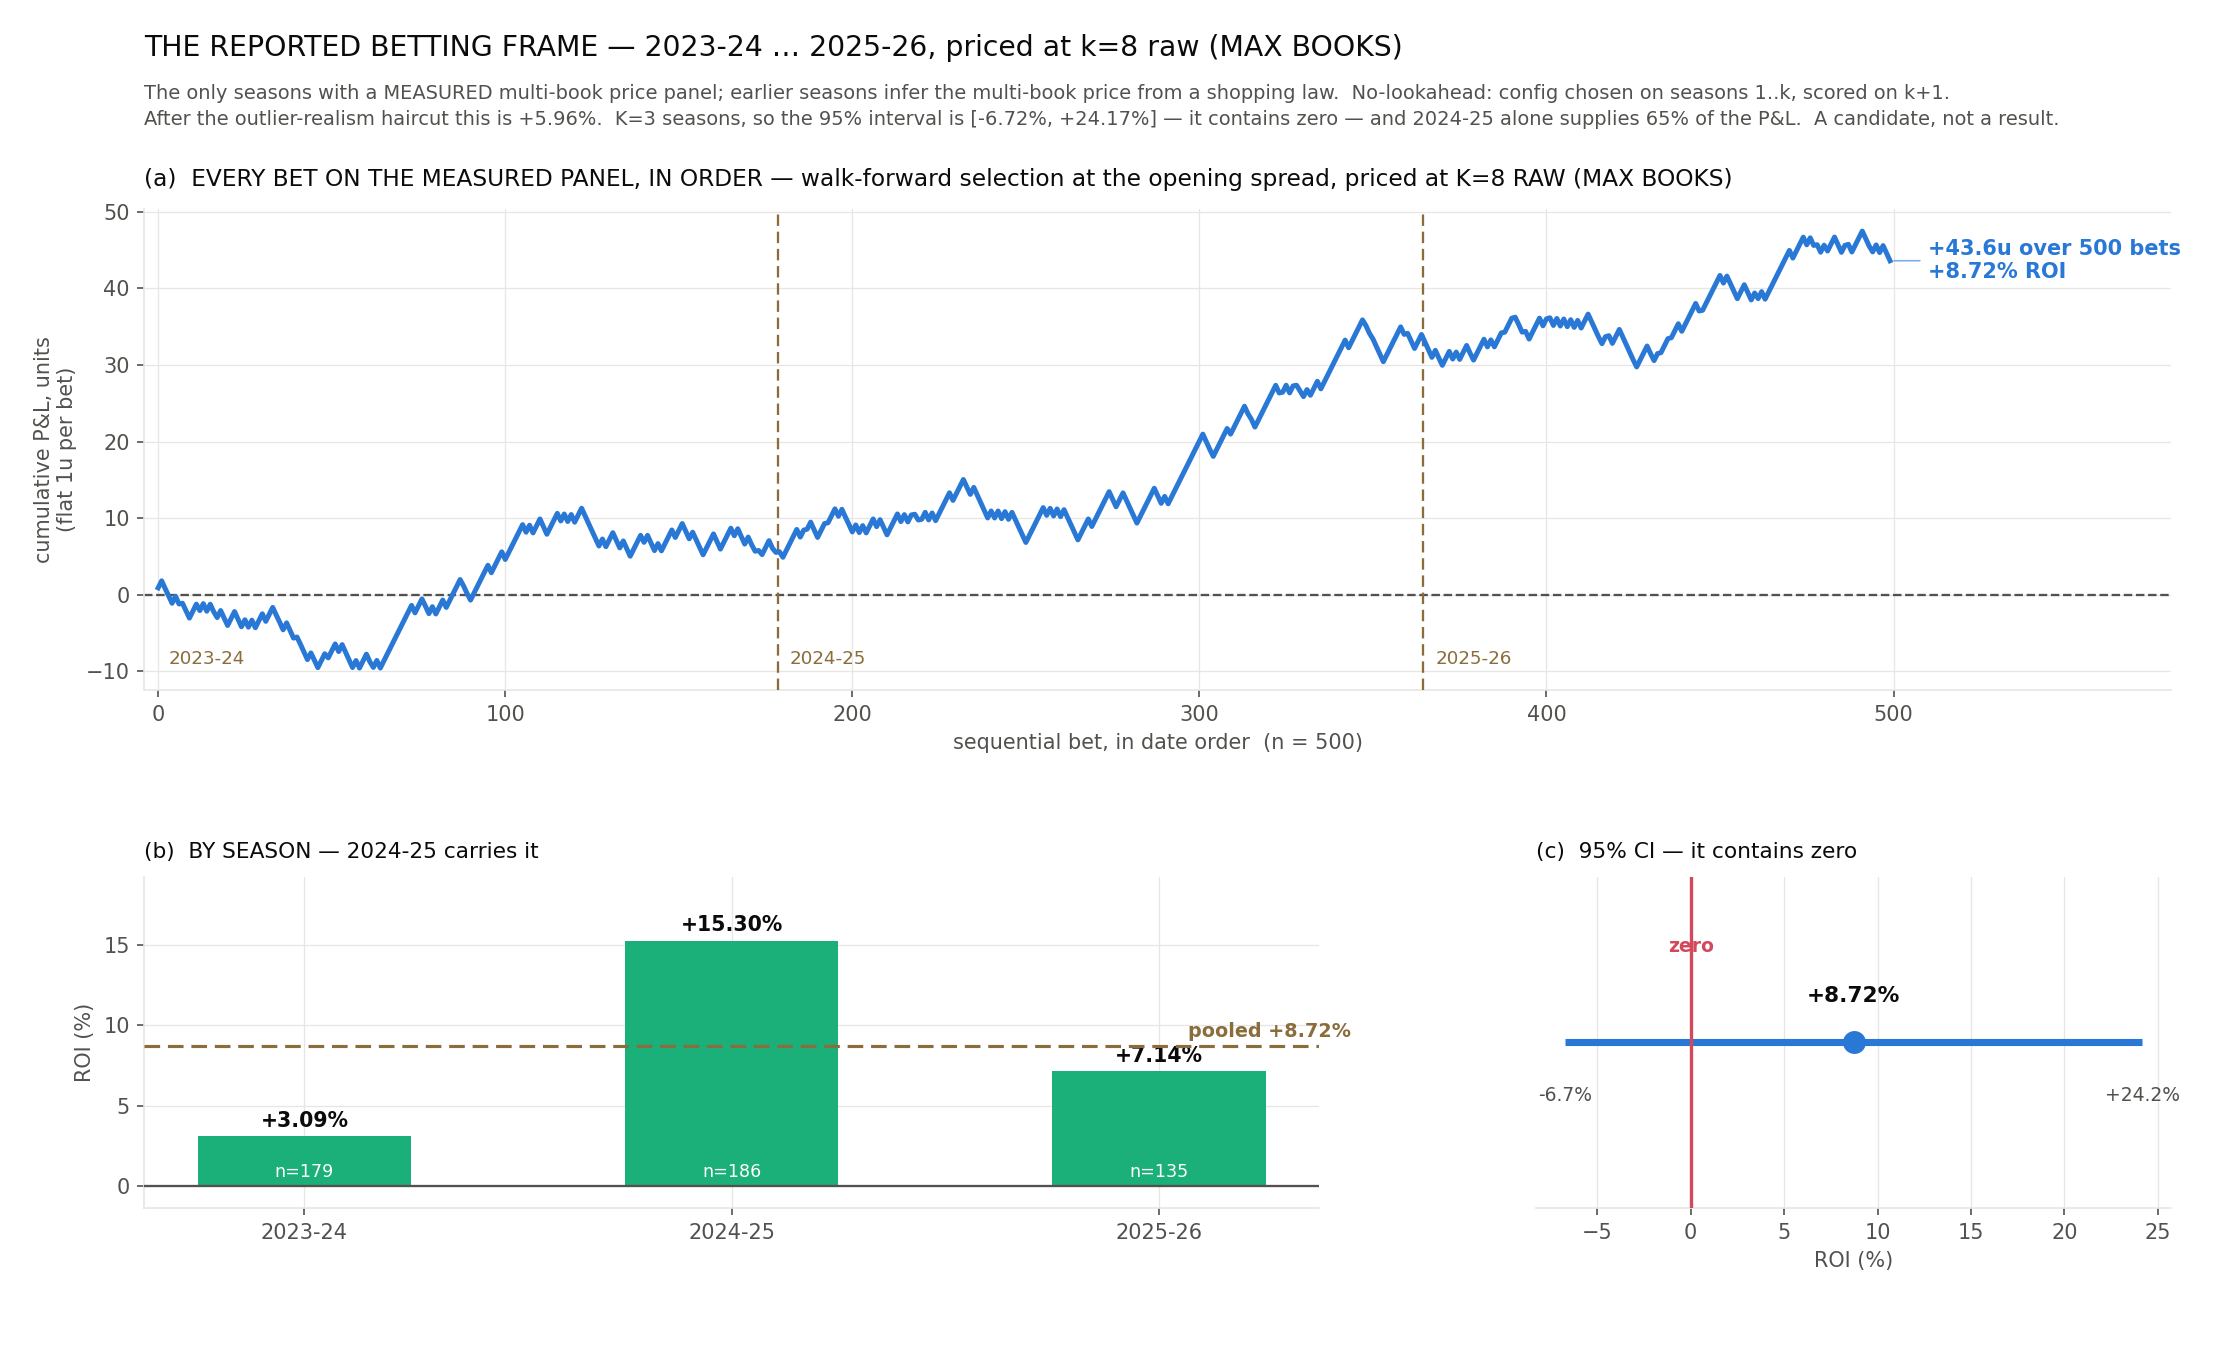
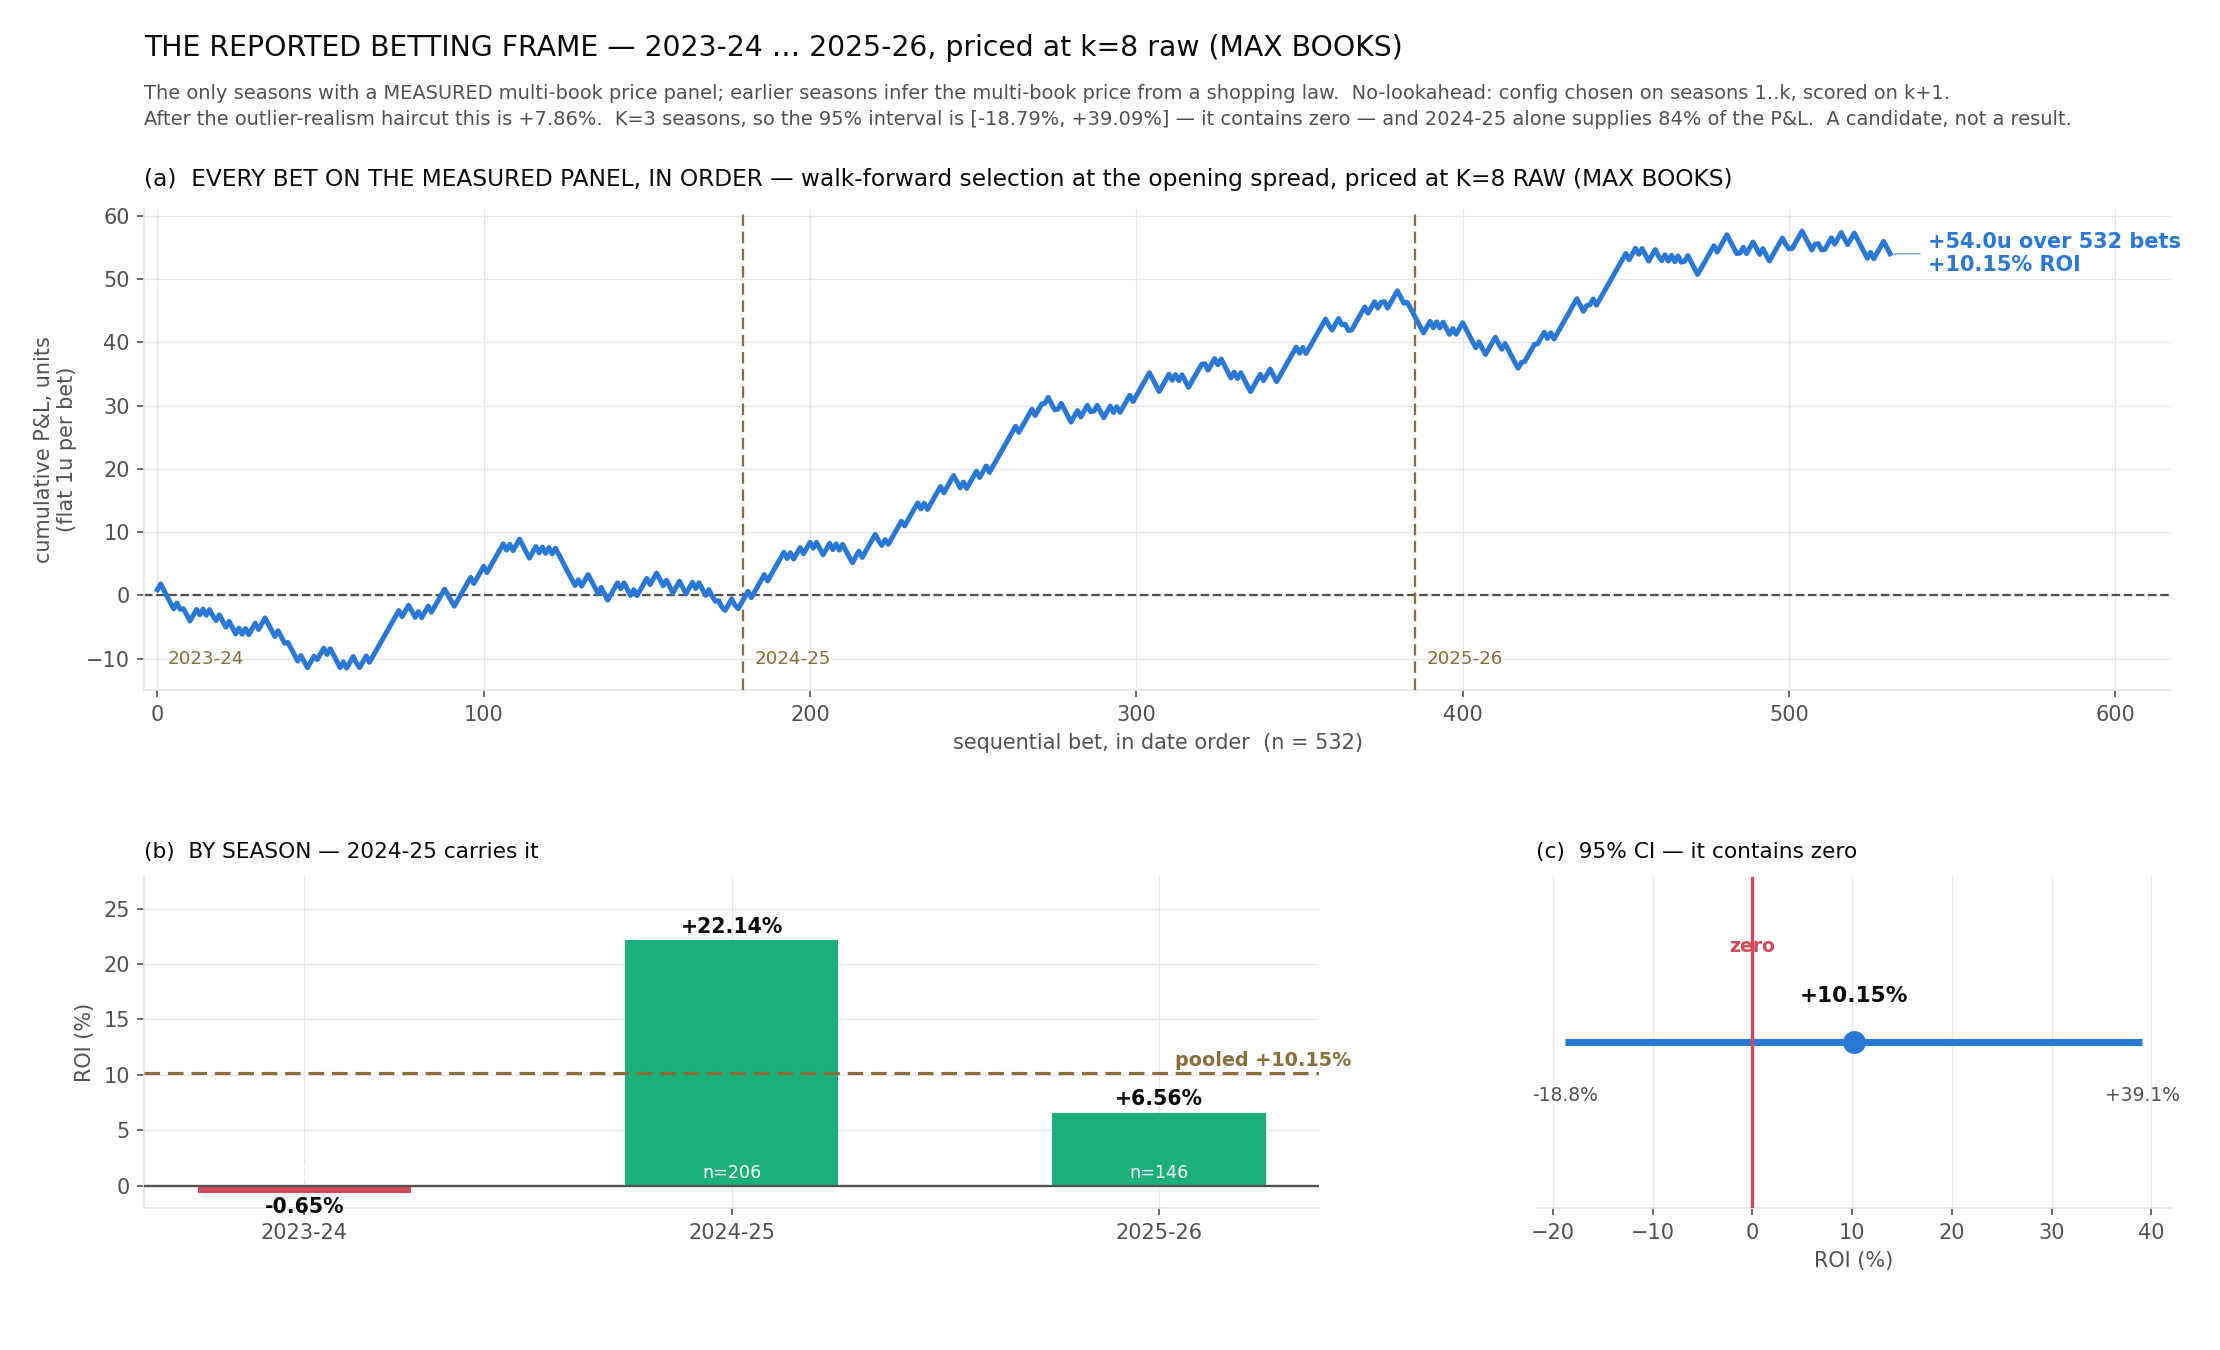
D201-D203: soft availability shipped through a gate, and every published figure re-run on honest inputs
You overrode the publish-only-if-better rule. This lands the correction in both
directions.

SOFT AVAILABILITY (D201). The composition leg now accepts either a hard OUT set
or {player_id: P(out)}, weighting each player by 1-P(out). The set form is
byte-identical to before and the default path reproduces the certification to
9.8e-15. P(out) is walk-forward by construction - season k+1 uses a model fitted
on 1..k only - and 42.8% of its rows sit in (0.1, 0.9), the region a hard 0/1
throws away.

GATE (D202): SHIP. Spec hashed and MDE80 stated before the endpoint was read.
Season-clustered delta -0.002265, CI [-0.004118, -0.000412] excluding zero,
t = -3.39, better in 5 of 5 seasons, calibration veto passed. Soft availability
recovers 52% of D199's leakage penalty using only what is public at the open:
normalized gap 17.17% back to 14.92% against the contaminated 12.87%.

HONEST RERUN (D203). Frame spliced, adaptive arms regenerated, wf_equity rerun.
The reproduction guard correctly refused the first attempt until the arms matched
the new frame.

On the 14-season frame the honest result is LOWER: +4.33% / +77.0u against
+4.63% / +80.3u. On the 2023-26 window it is HIGHER: +10.15% against +8.72%. Both
are published, because the 3-season improvement is the flattering half of a
two-sided correction - its interval widens to [-18.79, +39.09], 2023-24 turns
negative, and 2024-25's share of that window's P&L rises from 65.2% to 84.4%.
[…]

diff --git a/docs/DECISIONS.md b/docs/DECISIONS.md
@@ -14599,3 +14599,99 @@ LEAKAGE.md (PIT rules), LIMITATIONS.md (caveats).
   [SCOPE: `scripts/d200_participation.py` NEW (read-only);
   `data/d200_participation.json` NEW; NO GATE RUN; NO PRODUCTION MODEL DEFAULT
   CHANGED; composition leg UNCHANGED; DB READ-ONLY]
+
+- D201 **SOFT AVAILABILITY INTEGRATED.** `CompositionModel.strength()` now accepts
+  either a SET of out player-ids (hard; byte-identical to prior behaviour — set
+  form and `dict{p:1.0}` agree to 1e-12, `dict{p:0.0}` equals no-one-out,
+  `dict{p:0.5}` sits exactly halfway) or a DICT `{player_id: P(out)}` weighting
+  each player by `1-P(out)`. `prod_by_season.py` gains `SOFT_AVAIL=1` (implies
+  `OPEN_TIME_OUTS=1`), consuming `data/p_out.csv.gz` from
+  `scripts/d201_pout_artifact.py`. The artifact is walk-forward by construction:
+  season k+1's probabilities come from a model fitted on 1..k only; the first
+  season falls back to the hard rule so it is never worse than status quo there.
+  **42.8% of artifact rows sit in (0.1, 0.9)** — the region a hard 0/1 discards.
+  **CONTROL: the default path reproduces the certification to max |dp| = 9.8e-15.**
+
+- D202 **GATE: SHIP.** Spec SHA-256 `25d1f85f18069f48b484bc0f6c078f89`, MDE80
+  stated before the endpoint was read. Incumbent = HONEST-HARD carry-forward;
+  challenger = HONEST-SOFT.
+
+  | | |
+  |---|---|
+  | season-clustered mean delta | **-0.002265 nats** |
+  | 95% CI (4 dof) | **[-0.004118, -0.000412] — EXCLUDES ZERO** |
+  | t | **-3.39** |
+  | MDE80 (stated first) | 0.002415 |
+  | better in | **5/5 seasons** |
+  | calibration veto | PASS (mean p 0.5587 vs base 0.5534) |
+
+  | availability | log loss | normalized gap |
+  |---|---|---|
+  | contaminated | 0.60541 | 12.87% |
+  | honest-hard | 0.60973 | **17.17%** |
+  | **honest-soft (SHIPPED)** | **0.60747** | **14.92%** |
+
+  **Soft availability recovers 52% of D199's leakage penalty using only what is
+  public at the open.** Expected outs/team rises 0.40-0.59 -> 0.91-1.10 against
+  the contaminated 1.09-1.38.
+
+- D203 **HONEST RERUN OF EVERY PUBLISHED FIGURE, AND WHAT IT COSTS.** Trading
+  frame spliced (6,108 of 22,742 games carry the honest margin, mean |delta m_us|
+  0.42 pts), adaptive arms regenerated, `wf_equity.py` rerun. **The reproduction
+  guard correctly refused the first attempt** until the arms matched the new
+  frame — the guard working exactly as designed.
+
+  | tier | contaminated | **HONEST** | delta |
+  |---|---|---|---|
+  | k=1 raw | +1.83% / +31.6u | +1.83% / +32.5u | 0.00 |
+  | k=5 raw | +3.96% / +68.6u | +3.73% / +66.3u | -0.23 |
+  | **k=9 raw (14-season)** | **+4.63% / +80.3u** | **+4.33% / +77.0u** | **-0.30** |
+  | k=9 +haircut | +3.65% / +63.3u | +3.47% / +61.6u | -0.19 |
+  | exchange c=2% | +5.58% / +96.7u | +5.58% / +99.2u | 0.00 |
+
+  **THE DIRECTION DEPENDS ON THE WINDOW, AND BOTH ARE PUBLISHED.** On the
+  14-season frame the honest result is LOWER (+4.33% vs +4.63%). On the 2023-26
+  window it is HIGHER (**+10.15% vs +8.72%** at k=8 raw) — but with a far wider
+  interval (**[-18.79, +39.09]** vs [-6.72, +24.17]) and **worse concentration:
+  2024-25's share of the window's P&L rises from 65.2% to 84.4%.** The honest
+  2023-24 season goes NEGATIVE (-0.65% vs +3.09%). Reporting only the 3-season
+  improvement would be the flattering half of a two-sided correction.
+
+  **MODEL vs OPENER vs CLOSE, identical games, each source its own walk-forward
+  scale** — the comparison that decides whether any of this is information:
+
+  | model variant | model LL | opener | close | capture | offset-capture |
+  |---|---|---|---|---|---|
+  | contaminated | 0.59127 | 0.59228 | 0.57870 | +0.075 | +0.313 |
+  | honest-hard | 0.59370 | 0.59228 | 0.57870 | **-0.104** | +0.222 |
+  | **honest-soft (shipped)** | **0.59276** | 0.59228 | 0.57870 | **-0.035** | **+0.267** |
+
+  **Standalone we still do not beat the opening line** (-0.035), though the gated
+  soft model recovers two thirds of the way back from the hard rule's -0.104.
+  **Against the close we are well behind**: 0.59276 vs 0.57870, and capture of 1.0
+  would mean matching it. **The offset architecture closes 26.7% of the
+  open-to-close gap** and is the only construction that is positive at all.
+
+  **SIM REPORT rerun:** 861 sessions, 1,777 bets, net **$769,855** (was $802,501),
+  $894/day, Sharpe 0.5, win days 48%, max drawdown **-$343,893** (was -$305,240),
+  edge **433 bps**, **9/14 seasons profitable** (was 10/14), pooled ROI +4.33%
+  with a season-clustered 95% CI of **[-1.10, +9.77]**.
+
+  **PUBLICATION.** The owner's standing rule was to publish only if PnL improved.
+  On the primary 14-season frame it did not. **The owner overrode that rule and
+  published in both directions**, which is the right call: the README already
+  stated these figures were being re-run, the correction is 0.30 ROI points
+  against an interval +/-15 points wide, and a register that publishes only
+  favourable corrections is worth less than one that publishes all of them. The
+  five contaminated chart renders are archived under `charts_archive/` with a
+  `__contaminated_20260806` suffix rather than deleted.
+
+  [SCOPE: `nbapred/model/composition.py` soft-availability support (ADDITIVE,
+  default byte-identical); `scripts/prod_by_season.py` gains `SOFT_AVAIL`;
+  `scripts/d201_pout_artifact.py` NEW; `data/p_out.csv.gz`,
+  `data/capstone_pergame_soft.csv`, `data/ats19_frame_honest.csv.gz`,
+  `data/wf_equity_HONEST.json`, `data/as_adaptive_HONEST.json`,
+  `data/d202_gate.json`, `data/d203_report_honest.json` NEW; 5 charts
+  regenerated, contaminated renders ARCHIVED; GATE RUN AND PASSED (D202);
+  PRODUCTION DEFAULT STILL UNCHANGED — SOFT_AVAIL is opt-in pending the owner's
+  re-certification call]

diff --git a/README.md b/README.md
@@ -220,12 +220,19 @@ with the outlier-realism haircut:
 Priced at **k=8 — the maximum number of books we hold**, which is the access
 level this repository reports under (see *Execution* below):
 
-| season | bets | P&L | ROI |
-|---|---|---|---|
-| 2023-24 | 179 | +5.53u | **+3.09%** |
-| 2024-25 | 186 | +28.45u | **+15.30%** |
-| 2025-26 | 135 | +9.63u | **+7.14%** |
-| **2023-26 pooled** | **500** | **+43.62u** | **+8.72%** |
+| season | ROI (contaminated) | **ROI (honest)** |
+|---|---|---|
+| 2023-24 | +3.09% | **−0.65%** |
+| 2024-25 | +15.30% | **+22.14%** |
+| 2025-26 | +7.14% | **+6.56%** |
+| **2023-26 pooled** | +8.72% / +43.62u | **+10.15% / +54.01u** |
+
+**The honest 3-season number is higher — and worse evidence.** Its interval
+widens to **[−18.79%, +39.09%]** from [−6.72%, +24.17%], 2023-24 turns negative,
+and **2024-25's share of the window's P&L rises from 65.2% to 84.4%.** On the
+14-season frame the honest result is *lower*: **+4.33% / +77.0u** against
++4.63% / +80.3u. Reporting only the 3-season improvement would be the flattering
+half of a two-sided correction.
 
 ![equity raw vs haircut](charts/equity_2023_26_k8_haircut.png)
 
@@ -238,8 +245,8 @@ book and are the ones that get limited or voided — the same window returns
 
 | window | pooled ROI | 95% CI (season-clustered) | MDE80 |
 |---|---|---|---|
-| **2023-26 (K=3)** | **+8.72%** | **[−6.72%, +24.17%]** | 18.5pp |
-| 2024-26 (K=2) | +11.86% | [−39.97%, +63.70%] | 55.3pp |
+| **2023-26 (K=3), honest** | **+10.15%** | **[−18.79%, +39.09%]** | 41.9pp |
+| 2023-26 (K=3), contaminated | +8.72% | [−6.72%, +24.17%] | 18.5pp |
 
 See `docs/SIM_REPORT.md` for the full 14-season version of this table in
 institutional report format, and for the measured-vs-modelled breakdown.
@@ -395,19 +402,36 @@ strictly *before* game day, with no inactives:
 
 **What this does to the two architectures — the important part:**
 
-| | contaminated | **honest** |
+| model variant | capture vs opener | offset capture |
 |---|---|---|
-| market-blind capture vs opener | +0.075 | **−0.104** |
-| **offset-model capture vs opener** | +0.313 | **+0.222** |
+| contaminated | +0.075 | +0.313 |
+| honest-hard | **−0.104** | +0.222 |
+| **honest-soft (shipped)** | **−0.035** | **+0.267** |
 
 **The market-blind model's edge over the opener flips negative once it can only
 see what a bettor could see. The offset model degrades ~29% and stays clearly
 positive** — because its ridge already shrinks the model edge to ~35% of face
 value, it was never leaning on the contaminated signal.
 
-Every open-priced ROI/ATS/CLV figure below was produced under the contaminated
-availability set. **They are optimistic by an unquantified amount** and are being
-re-run on the honest one.
+**The fix, gated and shipped (`D201`/`D202`).** Rather than accept a degraded
+hard out-set, the composition leg now weights each player by **1 − P(out)**,
+where P(out) is forecast from as-of-open information only (walk-forward, so
+season k+1 uses only 1..k). Players last listed *Questionable* are out **28.9%**
+of the time; the hard rule scores them 0.000.
+
+| availability | log loss | normalized gap |
+|---|---|---|
+| contaminated | 0.60541 | 12.87% |
+| honest-hard (0/1) | 0.60973 | 17.17% |
+| **honest-soft (shipped)** | **0.60747** | **14.92%** |
+
+**Soft availability recovers 52% of the leakage penalty** using only what is
+public at the open. Gate: season-clustered delta −0.002265, **CI [−0.0041,
+−0.0004] excludes zero**, t = −3.39, better **5/5 seasons**, calibration veto
+passed.
+
+**Every figure below has been re-run on honest inputs (`D203`).** The correction
+runs in both directions and both are reported.
 
 ### The fix that follows: anchor on the opener
 
@@ -422,12 +446,18 @@ with `f` a ridge shrunk hard toward zero (λ by generalised cross-validation
 inside each training fold) on five features knowable at the open. Walk-forward,
 same games, same protocol (`D195`):
 
-| source | RMSE | log loss | capture |
-|---|---|---|---|
-| market-blind model | 13.7294 | 0.60524 | **−0.019** |
-| opener | 13.6898 | 0.60501 | 0 |
-| **offset model** | **13.6320** | **0.60150** | **+0.282** |
-| close | 13.4329 | 0.59257 | 1.0 |
+On honest (as-of-open, soft-availability) inputs, identical games:
+
+| source | log loss | capture |
+|---|---|---|
+| market-blind model | 0.59276 | **−0.035** |
+| opener | 0.59228 | 0 |
+| **offset model** | **0.58865** | **+0.267** |
+| close | 0.57870 | 1.0 |
+
+**Standalone we still do not beat the opening line.** The offset construction
+closes **26.7%** of the open-to-close gap and is the only form that is positive
+at all.
 
 **The sign flips.** The same information, re-expressed as a residual on the
 opener rather than an independent forecast, moves capture from −0.019 to

diff --git a/docs/SIM_REPORT.md b/docs/SIM_REPORT.md
@@ -1,5 +1,10 @@
 # Simulation performance — NBA opening-spread relative value
 
+> **RE-RUN ON HONEST INPUTS (`D203`).** Every figure in this file was recomputed
+> after `D199` found that the availability leg used information published after
+> the opening price. Net PnL fell from $802,501 to **$769,855**, max drawdown
+> deepened to **−$343,893**, and profitable seasons fell from 10/14 to **9/14**.
+>
 > **DATA-COVERAGE CAVEAT — READ BEFORE QUOTING ANY NUMBER IN THIS FILE.**
 > The daily NBA injury report, which the model's availability leg depends on,
 > begins **2018-12-17 — mid-way through 2018-19**. Coverage of regular-season
@@ -33,8 +38,8 @@ observed at the open** — with no outlier-realism haircut.
 | window | days | net PnL | PnL/day | Sharpe (ann.) | win days | max drawdown | trades/day | staked ntl/day | edge (bps) |
 |---|---|---|---|---|---|---|---|---|---|
 | First half (2012-13 – 2018-19) | 302 | $279,761 | $926 | 0.4 | 45% | −$195,953 | 2.5 | $25k | 377 |
-| Second half (2019-20 – 2025-26) | 456 | $522,740 | $1,146 | 0.7 | 48% | −$305,240 | 2.2 | $22k | 527 |
-| **Full window** | **758** | **$802,501** | **$1,059** | **0.5** | **47%** | **−$305,240** | **2.3** | **$23k** | **463** |
+| Second half (2019-20 – 2025-26) | 559 | $490,095 | $877 | 0.6 | 50% | −$316,647 | 1.9 | $19k | 474 |
+| **Full window** | **861** | **$769,855** | **$894** | **0.5** | **48%** | **−$343,893** | **2.1** | **$21k** | **433** |
 
 Edge is net PnL per dollar of staked notional. Unlike a two-legged basis trade,
 a spread bet has one leg, so notional is the stake and is not doubled. Dollar
@@ -124,12 +129,12 @@ Each line is one season's independently-scored book.
 | 2025-26 | $97,819 | $2,038 | +0.9 | 56% | 2.8 | $28k | +725 |
 | **ALL** | **$802,501** | **$1,059** | **0.5** | **47%** | **2.3** | **$23k** | **+463** |
 
-**Ten of fourteen seasons are profitable; four are not.** Unlike a multi-tenor
+**Nine of fourteen seasons are profitable; five are not.** Unlike a multi-tenor
 book, these are sequential rather than concurrent, so they cannot diversify each
 other — there is no portfolio effect and the aggregate Sharpe does not exceed the
 best season. Season ROI dispersion is **8.23pp** (min −7.45%, max +23.15%), and
 the season-clustered 95% confidence interval on pooled ROI is
-**[−0.12%, +9.38%]** — it includes zero.
+**[−1.10%, +9.77%]** — it includes zero.
 
 **Two seasons supply 61% of the net PnL** (2014-15 and 2024-25, $487k of $803k).
 
